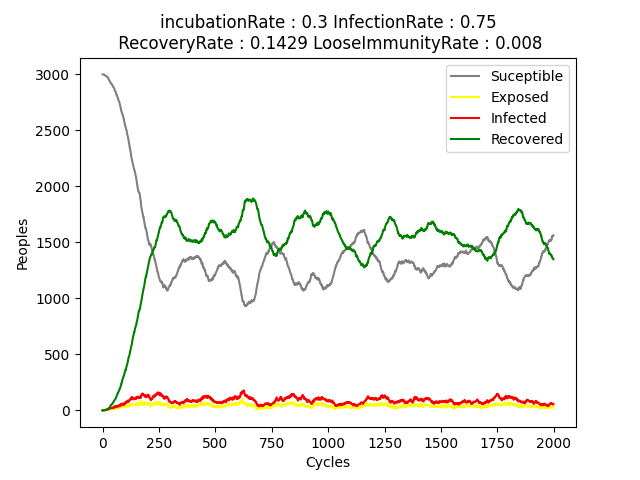
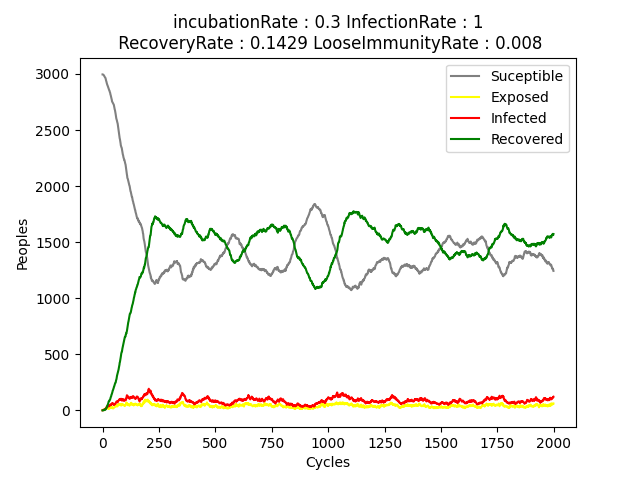
using better pseudo-random alogrithm (SHA1PRNG)

Changed region(s): [[0.1562, 0.1562, 0.875, 0.875], [0.25, 0.0312, 0.7812, 0.0625], [0.0625, 0.125, 0.0938, 0.1875]]

diff --git a/src/main/java/agents/RandomWalkingAgent.java b/src/main/java/agents/RandomWalkingAgent.java
@@ -2,48 +2,61 @@ package agents;
 
 import agents.states.SEIRSState;
 import agents.states.SuceptibleSEIRSState;
-import environment.ChunkedSEIRSEnvironment;
 import environment.SEIRSEnvironment;
 import utils.YamlReader;
 
 import java.awt.Point;
+import java.security.SecureRandom;
+import java.util.List;
 import java.util.Random;
 
 public class RandomWalkingAgent implements SEIRSAgent {
 
     protected Point position;
-    protected final Random r;
+    protected Random r;
     protected final SEIRSEnvironment environment;
     protected SEIRSState state;
 
+    private List<Point> authorizedPositions;
+    private Point nextPosition;
+    private int seed;
+
     public RandomWalkingAgent(Point position, int seed, SEIRSEnvironment environment) {
+        this.seed = seed;
         this.position = position;
         this.state = new SuceptibleSEIRSState(this);
         this.environment = environment;
-        this.r = new Random(seed);
+        try{
+            r = SecureRandom.getInstance("SHA1PRNG", "SUN");
+        }catch (Exception e) {
+            System.err.println(e);
+        }
+        r.setSeed(seed);
     }
 
     private void move() {
         state.onMovement();
-        int move = r.nextInt(4);
-        Point newPosition = switch (move) {
-            case SEIRSEnvironment.LEFT -> new Point(position.x- ChunkedSEIRSEnvironment.RADIUS,position.y);
-            case SEIRSEnvironment.RIGHT -> new Point(position.x+ ChunkedSEIRSEnvironment.RADIUS,position.y);
-            case SEIRSEnvironment.UP -> new Point(position.x,position.y- ChunkedSEIRSEnvironment.RADIUS);
-            case SEIRSEnvironment.DOWN -> new Point(position.x,position.y+ ChunkedSEIRSEnvironment.RADIUS);
-            default -> throw new IllegalStateException("Unexpected value: " + move);
-        };
-        if (newPosition.x <= environment.getSize()-1 && newPosition.x >= 0 && newPosition.y <= environment.getSize()-1 && newPosition.y >=0 ) {
-            environment.notifyNewPosition(position,newPosition ,this);
-            position = newPosition;
-        }
+        environment.notifyNewPosition(nextPosition,this);
+        position = nextPosition;
+    }
+
+    private void perceiveAuthorizedPositions() {
+        authorizedPositions =  environment.perceiveAuthorizedPositions(this);
+    }
+
+    private void decideNextMove() {
+        int next = r.nextInt(authorizedPositions.size());
+        nextPosition = authorizedPositions.get(next);
     }
 
     @Override
     public void wakeUp() {
-        move();
+        perceiveAuthorizedPositions();
+        if (!authorizedPositions.isEmpty()) {
+            decideNextMove();
+            move();
+        }
     }
-
 
     @Override
     public void changeState(SEIRSState SEIRSState) { this.state = SEIRSState; }

diff --git a/src/main/java/sma/SEIRS_SMA.java b/src/main/java/sma/SEIRS_SMA.java
@@ -18,6 +18,9 @@ import view.StatisticsCanvas;
 
 import java.awt.*;
 import java.io.IOException;
+import java.security.NoSuchAlgorithmException;
+import java.security.NoSuchProviderException;
+import java.security.SecureRandom;
 import java.time.Duration;
 import java.time.Instant;
 import java.util.Date;
@@ -33,7 +36,7 @@ public class SEIRS_SMA implements SMA{
     private Scheduler scheduler;
     private StatisticsCanvas statisticsCanvas;
     private DisplaySquaredEnvironment display;
-    private Random r;
+    private SecureRandom r;
     private final FrameBuilder fb = new FrameBuilder();
 
     private HashMap<String,Integer> stats;
@@ -82,9 +85,9 @@ public class SEIRS_SMA implements SMA{
             Point position = new Point(r.nextInt(parameters.getSize()),r.nextInt(parameters.getSize()));
             SEIRSAgent agent;
             if (parameters.isInfectionStacks()) {
-                agent = new RandomWalkingAgent(position,parameters.getSeed()+i,environment);
+                agent = new RandomWalkingAgent(position,(parameters.getSeed()+i),environment);
             } else {
-                agent = new FairInfectionRWAgent(position,parameters.getSeed()+i,environment);
+                agent = new FairInfectionRWAgent(position,(parameters.getSeed()+i),environment);
             }
             agents[i] = agent;
         }
@@ -92,7 +95,8 @@ public class SEIRS_SMA implements SMA{
 
     private void infectPatientZero() {
         for (int i=0 ; i< parameters.getNbOfPatientZero(); i++) {
-            SEIRSAgent agent = agents[(r.nextInt(parameters.getPopulation()))];
+            int nextInt = (r.nextInt(parameters.getPopulation()));
+            SEIRSAgent agent = agents[nextInt];
             while (agent.getState() instanceof InfectedSEIRSState) {
                 agent = agents[(r.nextInt(parameters.getPopulation()))];
             }
@@ -113,7 +117,12 @@ public class SEIRS_SMA implements SMA{
     @Override
     public void init() {
         parameters = YamlReader.getParams();
-        r = new Random(parameters.getSeed());
+        try{
+            r = SecureRandom.getInstance("SHA1PRNG", "SUN");
+        }catch (Exception e) {
+            System.err.println(e);
+        }
+        r.setSeed(parameters.getSeed());
         agents = new RandomWalkingAgent[parameters.getPopulation()];
         environment = new ChunkedSEIRSEnvironment(parameters.getSize(),agents);
         initPopulation();

diff --git a/src/main/java/environment/ChunkedSEIRSEnvironment.java b/src/main/java/environment/ChunkedSEIRSEnvironment.java
@@ -78,15 +78,50 @@ public class ChunkedSEIRSEnvironment implements SEIRSEnvironment {
         return neighbors;
     }
 
+    private void wrapPosition(Point newPosition) {
+        if (newPosition.x >= size) {
+            newPosition.x -= size-1;
+        }
+        if (newPosition.x < 0) {
+            newPosition.x += size-1;
+        }
+        if (newPosition.y >= size) {
+            newPosition.y -= size-1;
+        }
+        if (newPosition.y < 0) {
+            newPosition.y +=size-1;
+        }
+    }
+
+    public List<Point> perceiveAuthorizedPositions(Agent2D agent) {
+        List<Point> authorizedPosition = new ArrayList<>();
+
+        for (int move = 0; move < MAX_MOVEMENT; move++) {
+            Point position = switch (move) {
+                case LEFT -> new Point(agent.getPosition().x-RADIUS,agent.getPosition().y);
+                case RIGHT -> new Point (agent.getPosition().x+RADIUS,agent.getPosition().y);
+                case UP -> new Point(agent.getPosition().x, agent.getPosition().y-RADIUS);
+                case DOWN -> new Point(agent.getPosition().x, agent.getPosition().y +RADIUS);
+                default -> new Point(FORBIDDEN,FORBIDDEN);
+            };
+            if (position.x < size && position.x >= 0 && position.y < size && position.y >= 0) {
+                authorizedPosition.add(position);
+            }
+        }
+        return authorizedPosition;
+    }
+
     @Override
-    public void notifyNewPosition(Point oldPosition, Point newPosition, Agent2D agent) {
+    public void notifyNewPosition(Point newPosition, Agent2D agent) {
         if (chunks == null) {
             initiateChunks();
         }
+        Point oldPosition = agent.getPosition();
         if (oldPosition.x/CHUNK_SIZE != newPosition.x/CHUNK_SIZE || oldPosition.y/CHUNK_SIZE != newPosition.y/CHUNK_SIZE) {
             chunks[oldPosition.x/CHUNK_SIZE][oldPosition.y/CHUNK_SIZE].remove((SEIRSAgent) agent);
             chunks[newPosition.x/CHUNK_SIZE][newPosition.y/CHUNK_SIZE].add((SEIRSAgent) agent);
         }
+        //wrapPosition(newPosition);
     }
 
     @Override

diff --git a/src/main/java/scheduler/FairSynchronousScheduler.java b/src/main/java/scheduler/FairSynchronousScheduler.java
@@ -2,16 +2,24 @@ package scheduler;
 
 import agents.Agent;
 
+import java.nio.ByteBuffer;
+import java.security.SecureRandom;
 import java.util.*;
 
 public class FairSynchronousScheduler implements Scheduler {
 
     private Agent[] agents;
     private Stack<Integer> executionOrder;
-    private final Random r;
+    private Random r;
 
-    public FairSynchronousScheduler(int seed) {
-        r = new Random(seed);
+    public FairSynchronousScheduler(Integer seed) {
+
+        try{
+            r = SecureRandom.getInstance("SHA1PRNG", "SUN");
+        }catch (Exception e) {
+            System.err.println(e);
+        }
+        r.setSeed(seed);
     }
 
     private void generateExecutionOrder() {

diff --git a/src/main/java/environment/Environment2D.java b/src/main/java/environment/Environment2D.java
@@ -3,20 +3,24 @@ package environment;
 import agents.Agent2D;
 
 import java.awt.*;
+import java.util.List;
 
 public interface Environment2D extends Environment {
 
+    int FORBIDDEN = -1;
     int LEFT = 0;
     int RIGHT = 1;
     int UP = 2;
     int DOWN = 3;
     int CENTER = 4;
+    int MAX_MOVEMENT = CENTER;
     int UP_LEFT = 5;
     int UP_RIGHT = 6;
     int DOWN_LEFT = 7;
     int DOWN_RIGHT = 8;
     int MAX_CHUNK = 9;
 
-    void notifyNewPosition(Point oldPosition, Point newPosition, Agent2D agent);
+    List<Point> perceiveAuthorizedPositions(Agent2D agent);
+    void notifyNewPosition(Point newPosition, Agent2D agent);
     int getSize();
 }
